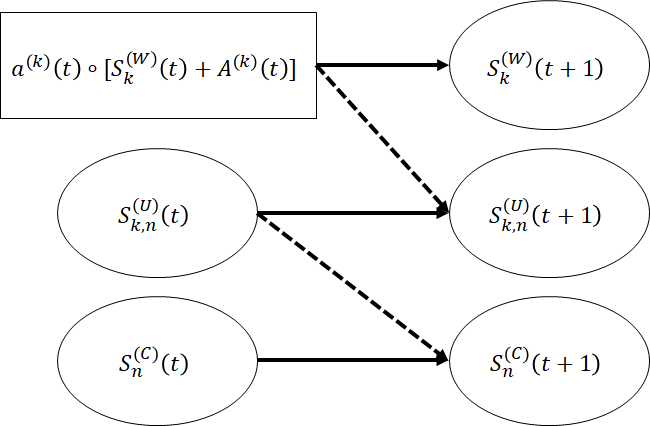
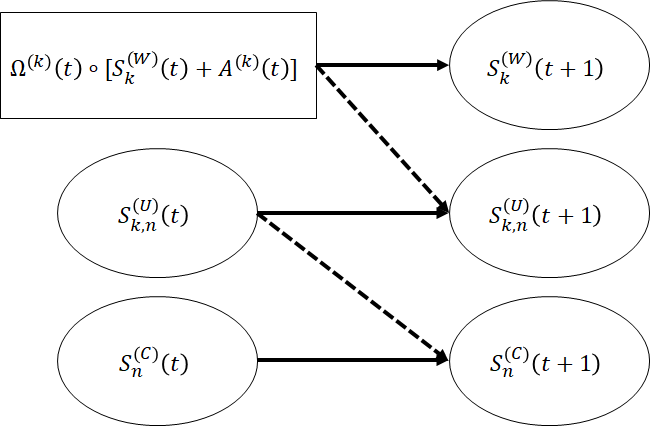
update 2014

Changed region(s): [[0.0, 0.1221, 0.4615, 0.2136]]

diff --git a/main.tex b/main.tex
@@ -153,7 +153,7 @@
                 
                 Our optimization target is to minimize the average waiting time and computation time for each job, which is called the jobs' average response time. According to \emph{Little’s Law}, to minimize average response time, is equal to minimize the average number of jobs in a system, which is:
                 \begin{gather}
-                    \min_{\pi} \lim_{T \to \infty} E[\frac{1}{T} \sum_{t=0}^{T} N(t)]
+                    \min_{\Omega} \lim_{T \to \infty} E[\frac{1}{T} \sum_{t=0}^{T} N(t)]
                     \\
                     N(t) = \sum_{k \in \mathcal{K}} (A^{(k)}(t) + N_k(t))
                             + \sum_{n \in \mathcal{N}} N_n(t)
@@ -177,36 +177,49 @@
                 \end{align}
                 where $L_C$ is a constant vector of length $\mathcal{N}$ with each denoting the computation time of that job on each server; and $L^{(U)}_{cd}(t), L^{(C)}_{cd}(t)$ are countdowns for uploading and computing time remained for that job respectively.
             
+                The single step transition graph is given below:
                 \begin{figure}[h]
                     \centering
                     \includegraphics[width=0.45\textwidth]{single-transition.png}
                     \caption{Single-step transition function composing illustration}
                     \label{fig:trans}
                 \end{figure}
+                Besides the states definition being illustrated above, we also have policy definition for $\vec{Omega}(t) \triangleq (\Omega^{(1)}(t), \dots, \Omega^{(\mathcal{K})}(t))$. Each single policy $\Omega^{(k)}{t}$ defined on $k$-th AP is based on single action distribution $a^{(k)}(j)$.
+                The single action $a^{(k)}$ is defined for $k$-th AP as: for a $j$-type job, it should keep waiting or being uploaded to $n$-th server. As we have total $L_C^{\mathcal{N}}$ kinds of jobs for all the unrelated machine, the action is defined as following:
+                \begin{align}
+                    a^{(k)}(j) \triangleq \Pr\{N=n\}
+                \end{align}
+                where $j \in [1, L_C^{\mathcal{N}}], n \in [0,\mathcal{N}]$ with dimensionality as $L_C^{\mathcal{N}} \times (\mathcal{N}+1)$. Then we come up with the policy distribution on $k$-th AP:
+                \begin{align}
+                    & \Omega^{(k)}(a^{(k)}, S^{(W)}_k(t)|A^{(k)}(t))
+                    =  \prod_{j \in S^{(W)}_k(t) \cup A^{(k)}(t)} a^{(k)}(j)
+                \end{align}
 
-                Firstly, we come up with some useful denotations for job sets to be transitioned to next stage as expressed in figure \ref{fig:trans}:
+                We come up with some useful denotations for job sets to be sent to next stage as expressed in figure \ref{fig:trans}:
                 \begin{align}
                     I^{(W \to U)}_{k,n}(N;L) &\triangleq \{ (L_i),L^{(U)}_{cd}:=T^{prop}_{k,n} \}_{i \in N}
                     \\
                     I^{(U \to C)}_{n}(N;L) &\triangleq \{ L^{(C)}_{cd}:=L_i \}_{i \in N}
                 \end{align}
-                where $I^{(W \to U)}_{k,n}(N;L)$ denotes the jobs been marked to upload in next time slot, $I^{(U \to C)}_{n}(N;L)$ denotes the just-uploaded job to start computation in next time slot; and we have the disturbance existing in the system as:
+                where $N$ is the number of jobs and $L$ is the vector of the length $N$ of the property respectively. $I^{(W \to U)}_{k,n}(N;L)$ denotes the jobs been marked to upload in next time slot, $I^{(U \to C)}_{n}(N;L)$ denotes the just-uploaded job to start computation in next time slot. We note that this is the only disturbance on the single AP agent, and we denote its probability as:
                 \begin{align}
-                    & \Pr\{ \{I^{(W \to U)}_{k,n}(t)\}_{n \in \mathcal{N}} | S_{k}^{(W)}(t), \vec{A}(t), a(t) \} \nonumber\\
-                    = & \Pr\{ A^{(k)}(t) \} \times \pi(a, S(t))
+                    & \Pr\{ \{I^{(W \to U)}_{k,n}(t)\}_{n \in \mathcal{N}} | S_{k}^{(W)}(t), A^{(k)}(t), \Omega^{(k)}(t) \} \nonumber\\
+                    = & \Pr\{ A^{(k)}(t) \} \times \Omega^{(k)}(t)
                 \end{align}
-                and with $I^{(W \to U)}(t)$ determined, the transition function for $S^{(W)}_{k}(t)$ and $S^{(U)}_{k,n}(t)$ is also determined which is:
+                And with $I^{(W \to U)}(t)$ determined, we could obtain the joint distribution of independent AP agents with respect to $S^{(W)}(t),S^{(U)}(t)$ as:
+                the transition function for $S^{(W)}_{k}(t)$ and $S^{(U)}_{k,n}(t)$ is also determined as:
                 \begin{align}
                     & \Pr\{
                         \begin{pmatrix}
-                            S^{(W)}_{k}(t+1) \\ \{S^{(U)}_{k,n}\}_{n \in \mathcal{N}(t+1)}
+                            S^{(W)}(t+1) \\ S^{(U)}(t+1)
                         \end{pmatrix}
                         |
                         \begin{pmatrix}
-                            S^{(W)}_{k}(t) \\ \{S^{(U)}_{k,n}\}_{n \in \mathcal{N}(t)}
-                        \end{pmatrix}, \vec{A}(t), a(t) \}
+                            S^{(W)}(t) \\ S^{(U)}(t)
+                        \end{pmatrix}, \vec{A}(t), \vec{\Omega}(t)
+                    \}
                     \nonumber\\
-                    = & \prod_k \Pr\{ A^{(k)}(t) \} \times \pi(a, S(t))
+                    = & \prod_{k \in \mathcal{K}} \Pr\{ A^{(k)}(t) \} \times \Omega^{(k)}(t)
                 \end{align}
 
                 On the other side, the states transition on ES is easily obtained as following because the computation process on ES is deterministic:
@@ -216,9 +229,9 @@
 
                 At last, we could come out with the global states transition function composed of the two parts as:
                 \begin{align}
-                    & \Pr\{ S(t+1)|S(t), \vec{A}(t), a(t)  \}
+                    & \Pr\{ S(t+1)|S(t), \vec{A}(t), \vec{\Omega}(t)  \}
                     \nonumber\\
-                    = & \prod_k \Pr\{ A^{(k)}(t) \} \times \pi(a, S(t))
+                    = & \prod_{k \in \mathcal{K}} \Pr\{ A^{(k)}(t) \} \times \Omega^{(k)}(t)
                 \end{align}
 
                 % The other interesting properties exists in the situation that when only states of ES is presence and the constraints are inversely put on APs. With \emph{Bayes' Law}, we could have:
